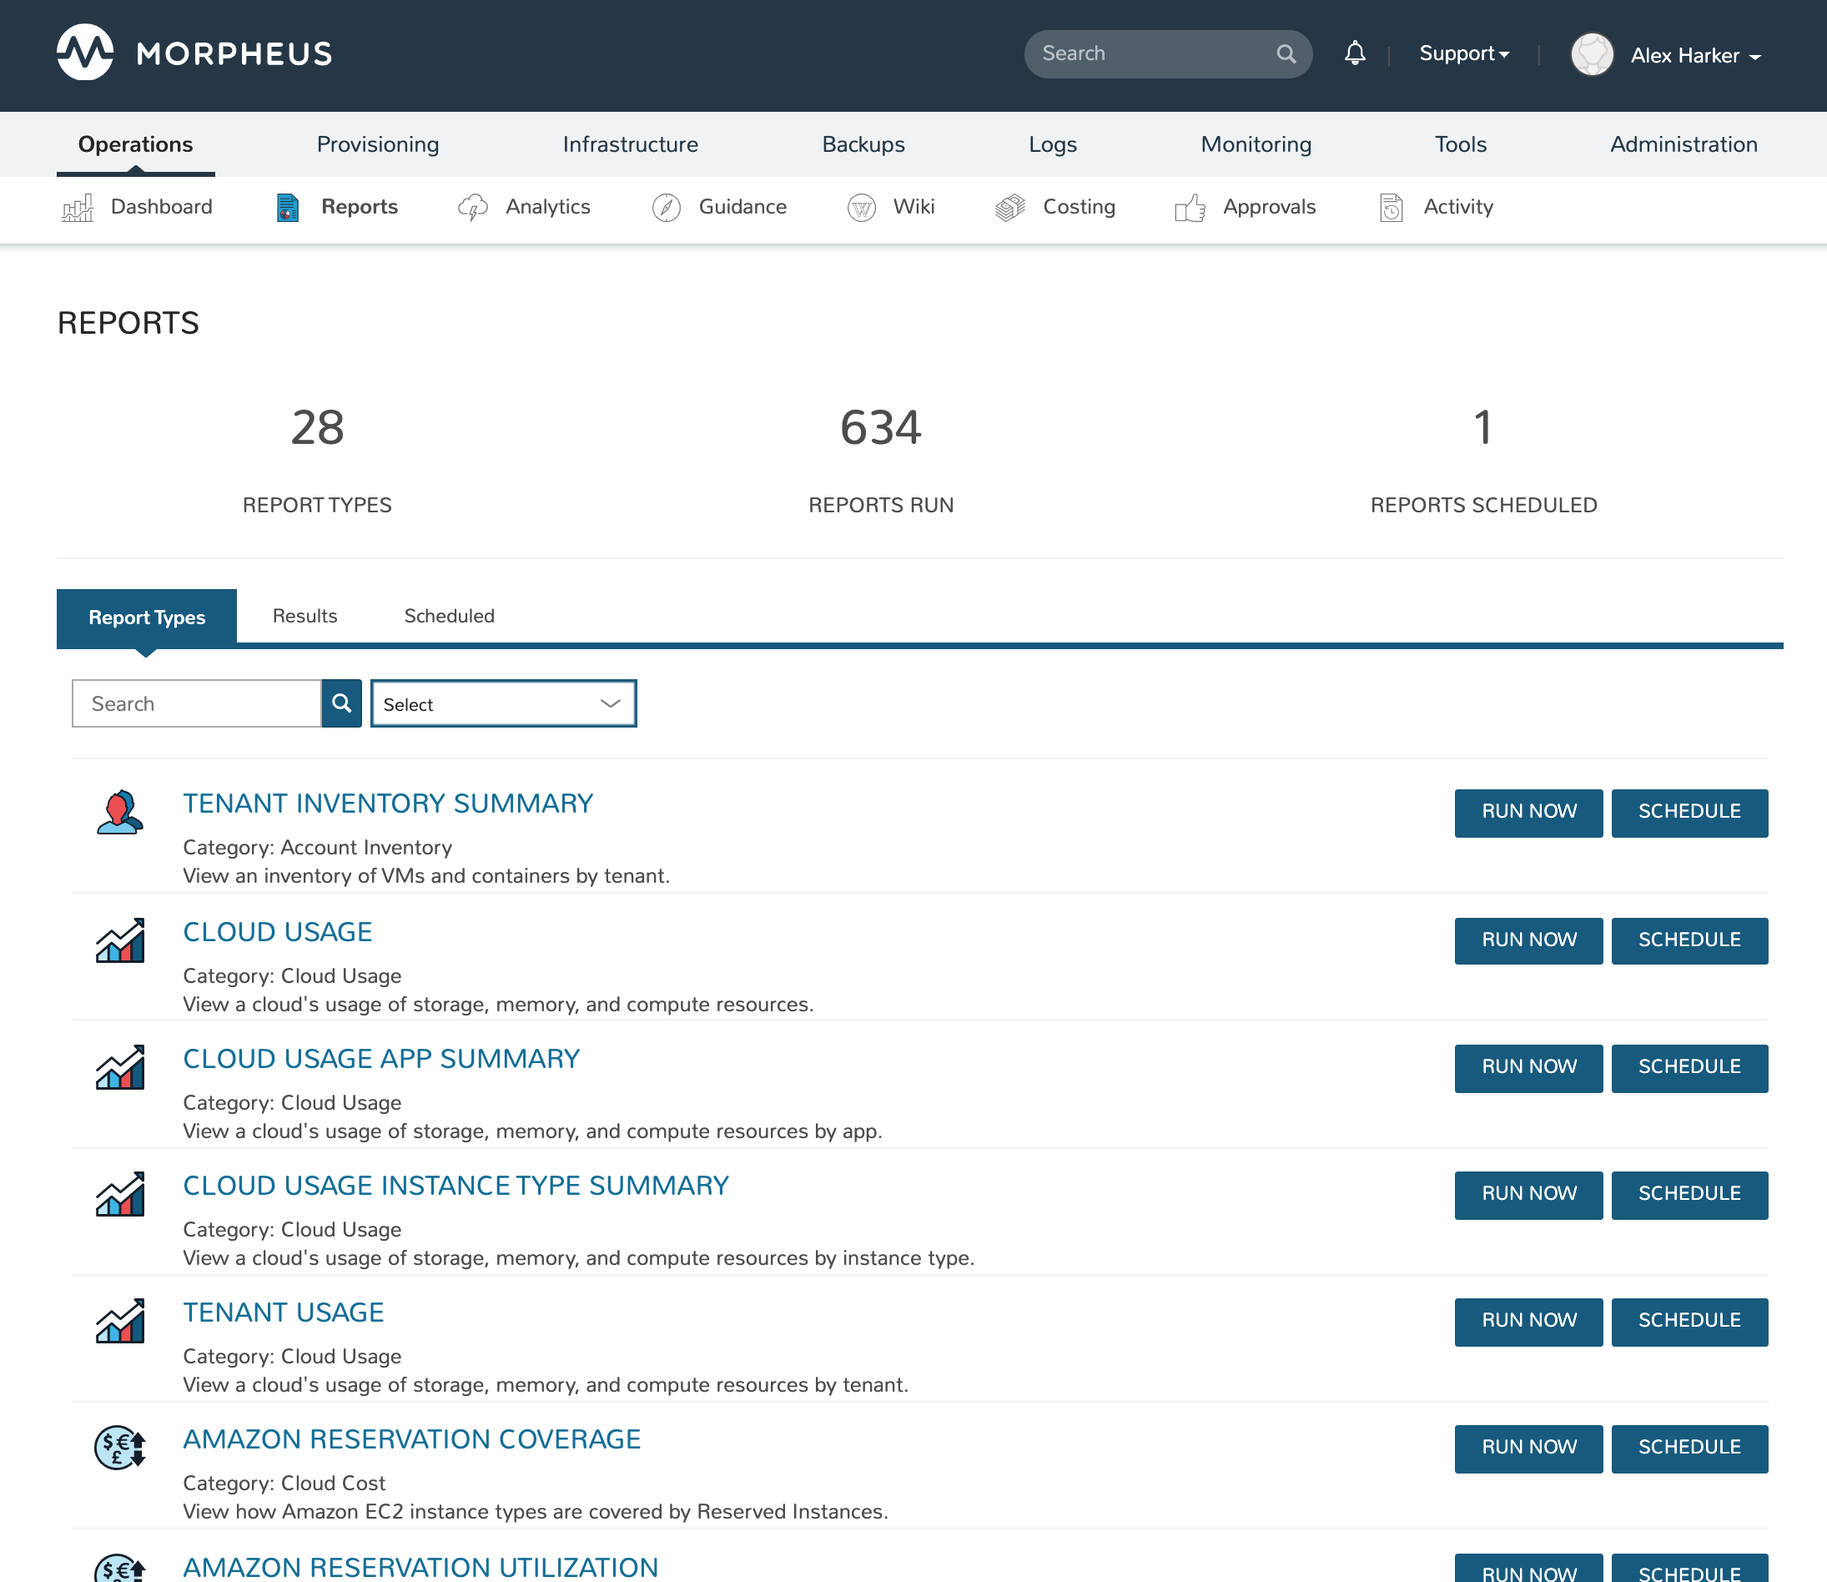
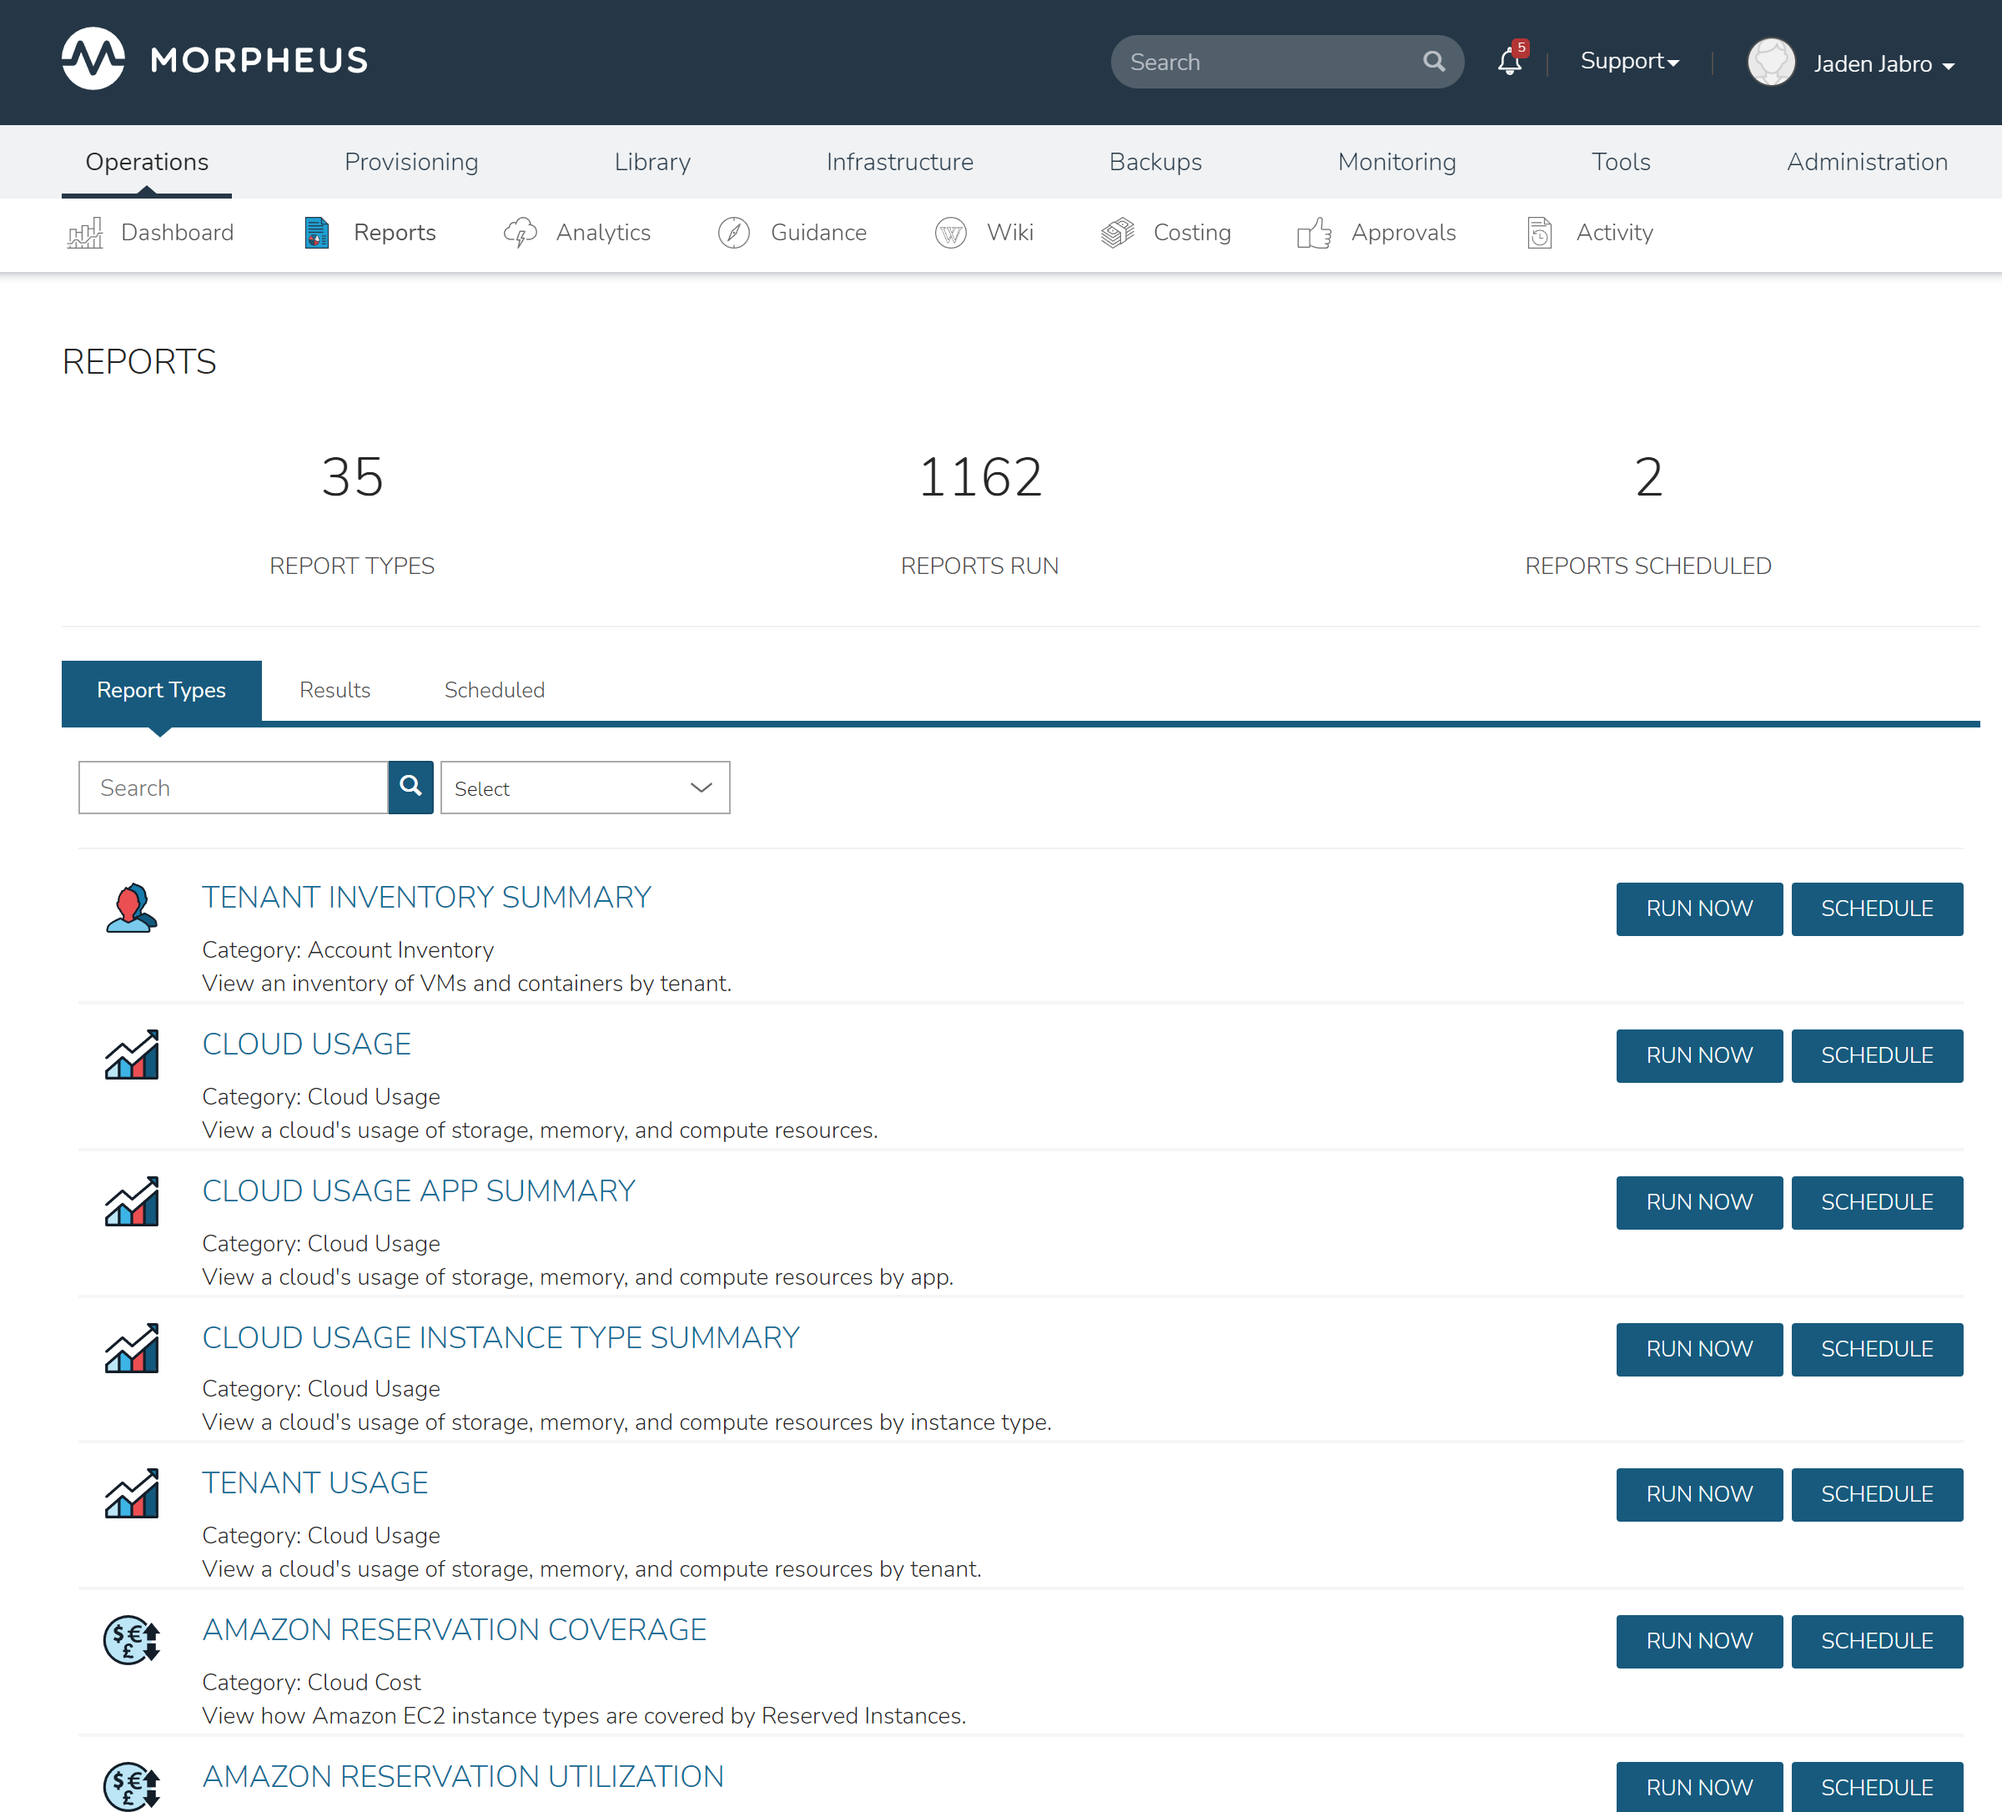
Updated Screenshots that Show Old UI
Replaced the screenshots. Only changed one instance of code to match the latest Morpheus version used in a screenshot file name.

Appended [Old] on all of the images that were replaced.

diff --git a/infrastructure/compute/compute.rst b/infrastructure/compute/compute.rst
@@ -1,7 +1,7 @@
 Compute
 =======
 
-.. image:: /images/infrastructure/compute/infra_compute_header_5.3.1.png
+.. image:: /images/infrastructure/compute/infra_compute_header_5.4.3.png
 
 .. note:: The Infrastructure ``Hosts`` page from previous versions has been renamed to ``Compute`` and updated with ``Container`` and ``Resource`` sections.
 
